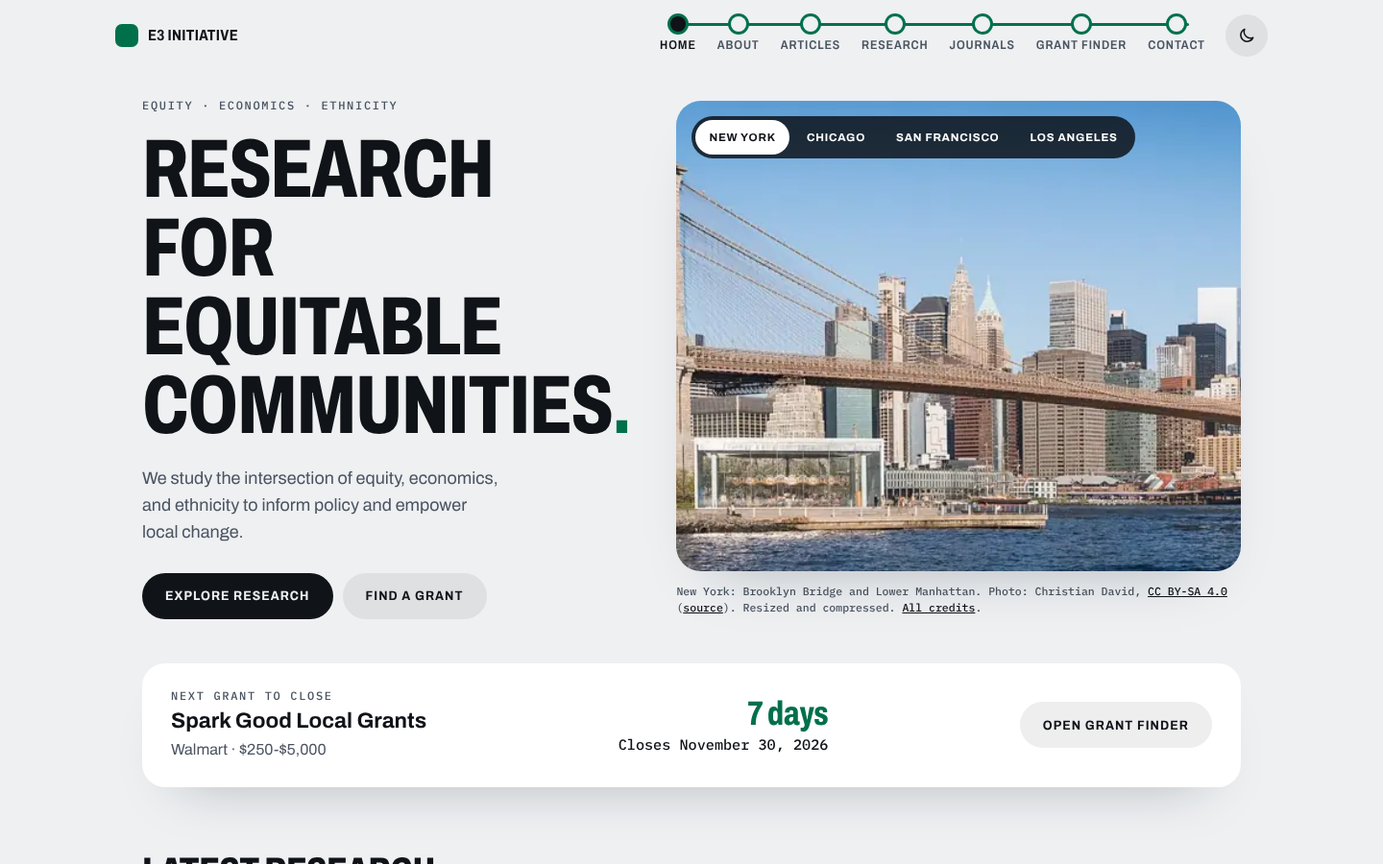
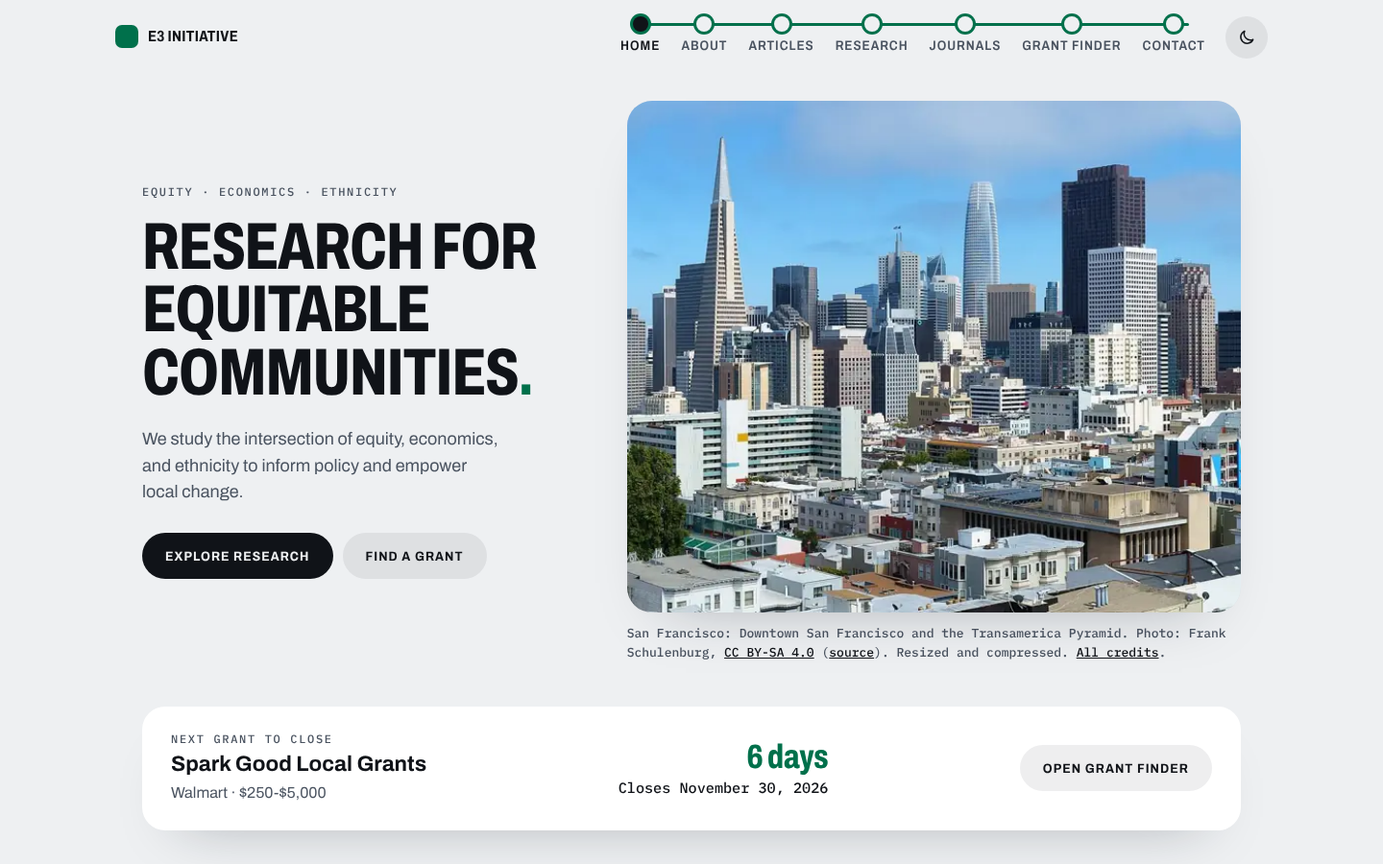
D preview: random city photo per visit (no switcher), larger nav and captions, headline fits three lines
Claude-Session: https://claude.ai/code/session_011mp1weCWc4EXh1bK3ePj6e

diff --git a/d-preview/index.html b/d-preview/index.html
@@ -10,7 +10,7 @@
 @font-face{font-family:'IBM Plex Mono';src:url(/d-preview/fonts/plexmono.woff2) format('woff2');font-weight:500;font-display:swap}
 :root{--bg:#eef0f2;--surface:#fff;--ink:#101318;--muted:#4a5360;--accent:#00704b;--wash:rgba(16,19,24,.07);--on-accent:#fff;--shadow:0 30px 60px -40px rgba(20,30,40,.35);
  --sans:Archivo,system-ui,-apple-system,"Segoe UI",Roboto,sans-serif;--mono:"IBM Plex Mono",ui-monospace,Menlo,monospace}
-html.night{--bg:#090c11;--surface:#121820;--ink:#f1f3f5;--muted:#a9b2be;--accent:#37d9a0;--wash:rgba(255,255,255,.08);--on-accent:#06130d;--shadow:0 30px 70px -40px rgba(0,0,0,.9)}
+html.night{--bg:#090c11;--surface:#121820;--ink:#f1f3f5;--muted:#b4bcc7;--accent:#37d9a0;--wash:rgba(255,255,255,.08);--on-accent:#06130d;--shadow:0 30px 70px -40px rgba(0,0,0,.9)}
 *,*::before,*::after{box-sizing:border-box;margin:0;padding:0}
 html{-webkit-text-size-adjust:100%}
 body{background:var(--bg);color:var(--ink);font:400 1rem/1.55 var(--sans);-webkit-font-smoothing:antialiased}
@@ -25,7 +25,7 @@ header{position:sticky;top:0;z-index:20;background:var(--bg)}
 .right{display:flex;align-items:center;gap:10px}
 nav ul{display:flex;list-style:none;position:relative;gap:0}
 nav ul::before{content:"";position:absolute;left:28px;right:28px;top:10px;height:3px;border-radius:2px;background:var(--accent)}
-nav a{position:relative;display:block;padding:26px 11px 6px;font:600 .8rem var(--sans);font-stretch:85%;letter-spacing:.07em;text-transform:uppercase;text-decoration:none;color:var(--muted);min-height:44px}
+nav a{position:relative;display:block;padding:26px 11px 8px;font:600 .875rem var(--sans);font-stretch:85%;letter-spacing:.07em;text-transform:uppercase;text-decoration:none;color:var(--muted);min-height:44px}
 nav a::before{content:"";position:absolute;left:50%;top:3px;width:16px;height:16px;margin-left:-8px;border-radius:50%;background:var(--bg);box-shadow:0 0 0 3px var(--accent)}
 nav a:hover{color:var(--ink)}nav a[aria-current=page]{color:var(--ink)}nav a[aria-current=page]::before{background:var(--ink)}
 .icon-btn{width:44px;height:44px;border-radius:50%;background:var(--wash);display:grid;place-items:center;border:0;color:var(--ink);cursor:pointer}
@@ -33,7 +33,7 @@ nav a:hover{color:var(--ink)}nav a[aria-current=page]{color:var(--ink)}nav a[ari
 .sun{display:none}html.night .sun{display:block}html.night .moon{display:none}
 .hero{display:grid;grid-template-columns:5fr 7fr;gap:48px;align-items:center;padding:28px 0 20px}
 .eyebrow{font:500 .75rem var(--mono);letter-spacing:.14em;text-transform:uppercase;color:var(--muted);margin-bottom:18px}
-h1{font-weight:760;font-stretch:72%;text-transform:uppercase;letter-spacing:-.015em;line-height:.95;font-size:clamp(2.9rem,6vw,5.4rem);text-wrap:balance}
+h1{font-weight:760;font-stretch:72%;text-transform:uppercase;letter-spacing:-.015em;line-height:.95;font-size:clamp(2.6rem,4.8vw,4.5rem);text-wrap:balance}
 h1 span{color:var(--accent)}
 .lede{margin:22px 0 28px;font-size:1.125rem;max-width:36ch;color:var(--muted)}
 .btns{display:flex;flex-wrap:wrap;gap:10px}
@@ -45,7 +45,7 @@ figure{margin:0}
 .tabs{position:absolute;left:16px;top:16px;display:flex;flex-wrap:wrap;gap:4px;padding:4px;border-radius:99px;background:rgba(10,14,20,.82)}
 .tabs button{min-height:36px;padding:0 14px;border-radius:99px;border:0;background:none;color:#fff;font:700 .72rem var(--sans);letter-spacing:.07em;text-transform:uppercase;cursor:pointer}
 .tabs button[aria-pressed=true]{background:#fff;color:#101318}
-figcaption{margin-top:12px;font:500 .72rem/1.5 var(--mono);color:var(--muted)}
+figcaption{margin-top:12px;font:500 .8125rem/1.55 var(--mono);color:var(--muted)}
 figcaption a{color:var(--ink)}
 .closes{display:flex;flex-wrap:wrap;align-items:center;justify-content:space-between;gap:18px 32px;margin:26px 0 0;padding:26px 30px;border-radius:24px;background:var(--surface);box-shadow:var(--shadow)}
 .closes h2{font:500 .75rem var(--mono);letter-spacing:.14em;text-transform:uppercase;color:var(--muted);margin-bottom:6px}
@@ -57,13 +57,13 @@ section.latest h2{font-weight:760;font-stretch:72%;text-transform:uppercase;font
 .cards{display:grid;grid-template-columns:repeat(3,1fr);gap:24px;list-style:none}
 .card a{display:block;text-decoration:none}.card img{width:100%;aspect-ratio:4/3;object-fit:cover;border-radius:18px;background:var(--wash)}
 .card h3{font-weight:700;font-size:1.1rem;line-height:1.25;margin:14px 0 6px}.card a:hover h3{text-decoration:underline}
-.card span{font:500 .8rem var(--mono);color:var(--muted)}
+.card span{font:500 .875rem var(--mono);color:var(--muted)}
 footer{padding:56px 0 40px;margin-top:40px}
 footer ul{display:flex;flex-wrap:wrap;gap:6px 24px;list-style:none;margin-bottom:18px}
 footer a{display:inline-block;padding:8px 0;color:var(--muted);text-decoration:none;font-weight:500}footer a:hover{color:var(--ink);text-decoration:underline}
 footer p{font:500 .75rem var(--mono);color:var(--muted)}
 .prose{max-width:760px;padding:40px 0}.prose h1{font-size:clamp(2.4rem,5vw,3.6rem);margin-bottom:18px}.prose p{margin:0 0 14px;color:var(--muted)}
-table{width:100%;border-collapse:collapse;margin:22px 0;font-size:.95rem}th,td{text-align:left;padding:12px 14px 12px 0;vertical-align:top}th{font:500 .72rem var(--mono);letter-spacing:.12em;text-transform:uppercase;color:var(--muted)}
+table{width:100%;border-collapse:collapse;margin:22px 0;font-size:.95rem}th,td{text-align:left;padding:12px 14px 12px 0;vertical-align:top}th{font:500 .75rem var(--mono);letter-spacing:.12em;text-transform:uppercase;color:var(--muted)}
 tbody tr:nth-child(odd){background:var(--wash)}td,th{padding-left:12px}
 @media(max-width:900px){.hero{grid-template-columns:1fr;gap:28px}.lede{max-width:none}.cards{grid-template-columns:1fr}.photo{aspect-ratio:4/3}
  .menu{display:grid}nav{display:none;position:absolute;left:0;right:0;top:100%;background:var(--bg);padding:6px 28px 16px}nav.open{display:block}nav ul{flex-direction:column}nav ul::before,nav a::before{display:none}nav a{padding:12px 0;min-height:44px}}
@@ -92,9 +92,8 @@ tbody tr:nth-child(odd){background:var(--wash)}td,th{padding-left:12px}
   <figure>
     <div class="photo" id="photo">
       <img id="hero" width="1200" height="1000" alt="" fetchpriority="high" decoding="async">
-      <script>(function(){var n=document.documentElement.classList.contains('night'),i=document.getElementById('hero');i.src='/d-preview/img/ny-'+(n?'night':'day')+'-1200.webp';i.srcset='/d-preview/img/ny-'+(n?'night':'day')+'-640.webp 640w, /d-preview/img/ny-'+(n?'night':'day')+'-1200.webp 1200w';i.sizes='(max-width:900px) 100vw, 58vw'})()</script>
+      <script>(function(){var n=document.documentElement.classList.contains('night'),i=document.getElementById('hero');var c=null;try{c=sessionStorage.getItem('e3-city')}catch(e){}var L=['ny','chi','sf','la'];if(L.indexOf(c)<0){c=L[Math.floor(Math.random()*4)];try{sessionStorage.setItem('e3-city',c)}catch(e){}}var b='/d-preview/img/'+c+'-'+(n?'night':'day');i.src=b+'-1200.webp';i.srcset=b+'-640.webp 640w, '+b+'-1200.webp 1200w';i.sizes='(max-width:900px) 100vw, 58vw'})()</script>
       <noscript><img src="/d-preview/img/ny-day-1200.webp" width="1200" height="1000" alt="Brooklyn Bridge and Lower Manhattan, in daylight"></noscript>
-      <div class="tabs" role="group" aria-label="Choose a city photo"><button type="button" data-c="ny" aria-pressed="true">New York</button><button type="button" data-c="chi" aria-pressed="false">Chicago</button><button type="button" data-c="sf" aria-pressed="false">San Francisco</button><button type="button" data-c="la" aria-pressed="false">Los Angeles</button></div>
     </div>
     <figcaption id="cap"></figcaption>
   </figure>
@@ -116,13 +115,12 @@ mn.addEventListener('click',function(){var o=n.classList.toggle('open');mn.setAt
 <script>
 (function(){
 var P={"ny-day": {"a": "Brooklyn Bridge and Lower Manhattan, in daylight", "c": "Brooklyn Bridge and Lower Manhattan", "w": "Christian David", "l": "CC BY-SA 4.0", "u": "https://creativecommons.org/licenses/by-sa/4.0/", "p": "https://commons.wikimedia.org/wiki/File:Brooklyn_Bridge_and_the_Lower_Manhattan_skyline_from_Pebble_Beach,_New_York.jpg", "s1": 72394, "s2": 18000}, "ny-night": {"a": "Times Square, Manhattan", "c": "Times Square, Manhattan", "w": "Nielsoncaetanosalmeron", "l": "CC BY 4.0", "u": "https://creativecommons.org/licenses/by/4.0/", "p": "https://commons.wikimedia.org/wiki/File:Times_Square,_NYC_at_night_-_August_2025.jpg", "s1": 131596, "s2": 45142}, "chi-day": {"a": "The Chicago skyline from Burnham Harbor, in daylight", "c": "The Chicago skyline from Burnham Harbor", "w": "Marie Miller", "l": "CC BY-SA 4.0", "u": "https://creativecommons.org/licenses/by-sa/4.0/", "p": "https://commons.wikimedia.org/wiki/File:Chicago-skyline-lake-burnham.jpg", "s1": 164096, "s2": 45444}, "chi-night": {"a": "The Chicago River at night", "c": "The Chicago River at night", "w": "Spatms", "l": "CC BY-SA 4.0", "u": "https://creativecommons.org/licenses/by-sa/4.0/", "p": "https://commons.wikimedia.org/wiki/File:Chicago_Skyline_on_the_Chicago_River_at_night.jpg", "s1": 102028, "s2": 39828}, "sf-day": {"a": "Downtown San Francisco and the Transamerica Pyramid, in daylight", "c": "Downtown San Francisco and the Transamerica Pyramid", "w": "Frank Schulenburg", "l": "CC BY-SA 4.0", "u": "https://creativecommons.org/licenses/by-sa/4.0/", "p": "https://commons.wikimedia.org/wiki/File:View_of_San_Francisco_from_Ina_Coolbrith_Park-01445.jpg", "s1": 97736, "s2": 29438}, "sf-night": {"a": "The San Francisco skyline across the bay", "c": "The San Francisco skyline across the bay", "w": "Cgbriggs19", "l": "CC BY-SA 4.0", "u": "https://creativecommons.org/licenses/by-sa/4.0/", "p": "https://commons.wikimedia.org/wiki/File:San_Francisco_Skyline_at_night.jpg", "s1": 58884, "s2": 20272}, "la-day": {"a": "Downtown Los Angeles towers, in daylight", "c": "Downtown Los Angeles towers", "w": "Levi Clancy", "l": "CC BY-SA 4.0", "u": "https://creativecommons.org/licenses/by-sa/4.0/", "p": "https://commons.wikimedia.org/wiki/File:Skyline_of_Los_Angeles,_Downtown_Los_Angeles,_California_13.jpg", "s1": 94474, "s2": 33040}, "la-night": {"a": "Downtown Los Angeles towers at night", "c": "Downtown Los Angeles towers at night", "w": "Stephen Friday", "l": "CC BY 2.0", "u": "https://creativecommons.org/licenses/by/2.0/", "p": "https://commons.wikimedia.org/wiki/File:Los_Angeles_at_night.jpg", "s1": 107142, "s2": 36678}},C=["ny", "chi", "sf", "la"],NM={"ny": "New York", "chi": "Chicago", "sf": "San Francisco", "la": "Los Angeles"};
-var city='ny',img=document.getElementById('hero'),cap=document.getElementById('cap'),tabs=document.querySelectorAll('.tabs button');
+var tabs=[];var city=null;try{city=sessionStorage.getItem('e3-city')}catch(e){}if(!city||C.indexOf(city)<0){city=C[Math.floor(Math.random()*C.length)];try{sessionStorage.setItem('e3-city',city)}catch(e){}}var img=document.getElementById('hero'),cap=document.getElementById('cap'),tabs=document.querySelectorAll('.tabs button');
 function mode(){return document.documentElement.classList.contains('night')?'night':'day'}
 function show(){var k=city+'-'+mode(),p=P[k],b='/d-preview/img/'+k;
   img.alt=p.a;img.srcset=b+'-640.webp 640w, '+b+'-1200.webp 1200w';img.src=b+'-1200.webp';
   cap.innerHTML=NM[city]+': '+p.c.replace(/&/g,'&amp;')+'. Photo: '+p.w.replace(/</g,'&lt;')+', <a href="'+p.u+'">'+p.l+'</a> (<a href="'+p.p+'">source</a>). Resized and compressed. <a href="/d-preview/credits.html">All credits</a>.';
-  tabs.forEach(function(t){t.setAttribute('aria-pressed',t.dataset.c===city)})}
-tabs.forEach(function(t){t.addEventListener('click',function(){city=t.dataset.c;show()})});
+  }
 window.e3Photo=show;show();
 fetch('/data/grants.json').then(function(r){return r.json()}).then(function(g){
   var today=new Date();today.setHours(0,0,0,0);

diff --git a/d-preview/credits.html b/d-preview/credits.html
@@ -10,7 +10,7 @@
 @font-face{font-family:'IBM Plex Mono';src:url(/d-preview/fonts/plexmono.woff2) format('woff2');font-weight:500;font-display:swap}
 :root{--bg:#eef0f2;--surface:#fff;--ink:#101318;--muted:#4a5360;--accent:#00704b;--wash:rgba(16,19,24,.07);--on-accent:#fff;--shadow:0 30px 60px -40px rgba(20,30,40,.35);
  --sans:Archivo,system-ui,-apple-system,"Segoe UI",Roboto,sans-serif;--mono:"IBM Plex Mono",ui-monospace,Menlo,monospace}
-html.night{--bg:#090c11;--surface:#121820;--ink:#f1f3f5;--muted:#a9b2be;--accent:#37d9a0;--wash:rgba(255,255,255,.08);--on-accent:#06130d;--shadow:0 30px 70px -40px rgba(0,0,0,.9)}
+html.night{--bg:#090c11;--surface:#121820;--ink:#f1f3f5;--muted:#b4bcc7;--accent:#37d9a0;--wash:rgba(255,255,255,.08);--on-accent:#06130d;--shadow:0 30px 70px -40px rgba(0,0,0,.9)}
 *,*::before,*::after{box-sizing:border-box;margin:0;padding:0}
 html{-webkit-text-size-adjust:100%}
 body{background:var(--bg);color:var(--ink);font:400 1rem/1.55 var(--sans);-webkit-font-smoothing:antialiased}
@@ -25,7 +25,7 @@ header{position:sticky;top:0;z-index:20;background:var(--bg)}
 .right{display:flex;align-items:center;gap:10px}
 nav ul{display:flex;list-style:none;position:relative;gap:0}
 nav ul::before{content:"";position:absolute;left:28px;right:28px;top:10px;height:3px;border-radius:2px;background:var(--accent)}
-nav a{position:relative;display:block;padding:26px 11px 6px;font:600 .8rem var(--sans);font-stretch:85%;letter-spacing:.07em;text-transform:uppercase;text-decoration:none;color:var(--muted);min-height:44px}
+nav a{position:relative;display:block;padding:26px 11px 8px;font:600 .875rem var(--sans);font-stretch:85%;letter-spacing:.07em;text-transform:uppercase;text-decoration:none;color:var(--muted);min-height:44px}
 nav a::before{content:"";position:absolute;left:50%;top:3px;width:16px;height:16px;margin-left:-8px;border-radius:50%;background:var(--bg);box-shadow:0 0 0 3px var(--accent)}
 nav a:hover{color:var(--ink)}nav a[aria-current=page]{color:var(--ink)}nav a[aria-current=page]::before{background:var(--ink)}
 .icon-btn{width:44px;height:44px;border-radius:50%;background:var(--wash);display:grid;place-items:center;border:0;color:var(--ink);cursor:pointer}
@@ -33,7 +33,7 @@ nav a:hover{color:var(--ink)}nav a[aria-current=page]{color:var(--ink)}nav a[ari
 .sun{display:none}html.night .sun{display:block}html.night .moon{display:none}
 .hero{display:grid;grid-template-columns:5fr 7fr;gap:48px;align-items:center;padding:28px 0 20px}
 .eyebrow{font:500 .75rem var(--mono);letter-spacing:.14em;text-transform:uppercase;color:var(--muted);margin-bottom:18px}
-h1{font-weight:760;font-stretch:72%;text-transform:uppercase;letter-spacing:-.015em;line-height:.95;font-size:clamp(2.9rem,6vw,5.4rem);text-wrap:balance}
+h1{font-weight:760;font-stretch:72%;text-transform:uppercase;letter-spacing:-.015em;line-height:.95;font-size:clamp(2.6rem,4.8vw,4.5rem);text-wrap:balance}
 h1 span{color:var(--accent)}
 .lede{margin:22px 0 28px;font-size:1.125rem;max-width:36ch;color:var(--muted)}
 .btns{display:flex;flex-wrap:wrap;gap:10px}
@@ -45,7 +45,7 @@ figure{margin:0}
 .tabs{position:absolute;left:16px;top:16px;display:flex;flex-wrap:wrap;gap:4px;padding:4px;border-radius:99px;background:rgba(10,14,20,.82)}
 .tabs button{min-height:36px;padding:0 14px;border-radius:99px;border:0;background:none;color:#fff;font:700 .72rem var(--sans);letter-spacing:.07em;text-transform:uppercase;cursor:pointer}
 .tabs button[aria-pressed=true]{background:#fff;color:#101318}
-figcaption{margin-top:12px;font:500 .72rem/1.5 var(--mono);color:var(--muted)}
+figcaption{margin-top:12px;font:500 .8125rem/1.55 var(--mono);color:var(--muted)}
 figcaption a{color:var(--ink)}
 .closes{display:flex;flex-wrap:wrap;align-items:center;justify-content:space-between;gap:18px 32px;margin:26px 0 0;padding:26px 30px;border-radius:24px;background:var(--surface);box-shadow:var(--shadow)}
 .closes h2{font:500 .75rem var(--mono);letter-spacing:.14em;text-transform:uppercase;color:var(--muted);margin-bottom:6px}
@@ -57,13 +57,13 @@ section.latest h2{font-weight:760;font-stretch:72%;text-transform:uppercase;font
 .cards{display:grid;grid-template-columns:repeat(3,1fr);gap:24px;list-style:none}
 .card a{display:block;text-decoration:none}.card img{width:100%;aspect-ratio:4/3;object-fit:cover;border-radius:18px;background:var(--wash)}
 .card h3{font-weight:700;font-size:1.1rem;line-height:1.25;margin:14px 0 6px}.card a:hover h3{text-decoration:underline}
-.card span{font:500 .8rem var(--mono);color:var(--muted)}
+.card span{font:500 .875rem var(--mono);color:var(--muted)}
 footer{padding:56px 0 40px;margin-top:40px}
 footer ul{display:flex;flex-wrap:wrap;gap:6px 24px;list-style:none;margin-bottom:18px}
 footer a{display:inline-block;padding:8px 0;color:var(--muted);text-decoration:none;font-weight:500}footer a:hover{color:var(--ink);text-decoration:underline}
 footer p{font:500 .75rem var(--mono);color:var(--muted)}
 .prose{max-width:760px;padding:40px 0}.prose h1{font-size:clamp(2.4rem,5vw,3.6rem);margin-bottom:18px}.prose p{margin:0 0 14px;color:var(--muted)}
-table{width:100%;border-collapse:collapse;margin:22px 0;font-size:.95rem}th,td{text-align:left;padding:12px 14px 12px 0;vertical-align:top}th{font:500 .72rem var(--mono);letter-spacing:.12em;text-transform:uppercase;color:var(--muted)}
+table{width:100%;border-collapse:collapse;margin:22px 0;font-size:.95rem}th,td{text-align:left;padding:12px 14px 12px 0;vertical-align:top}th{font:500 .75rem var(--mono);letter-spacing:.12em;text-transform:uppercase;color:var(--muted)}
 tbody tr:nth-child(odd){background:var(--wash)}td,th{padding-left:12px}
 @media(max-width:900px){.hero{grid-template-columns:1fr;gap:28px}.lede{max-width:none}.cards{grid-template-columns:1fr}.photo{aspect-ratio:4/3}
  .menu{display:grid}nav{display:none;position:absolute;left:0;right:0;top:100%;background:var(--bg);padding:6px 28px 16px}nav.open{display:block}nav ul{flex-direction:column}nav ul::before,nav a::before{display:none}nav a{padding:12px 0;min-height:44px}}

diff --git a/mockups/build/make_preview.py b/mockups/build/make_preview.py
@@ -45,7 +45,7 @@ CSS = """
 @font-face{font-family:'IBM Plex Mono';src:url(fonts/plexmono.woff2) format('woff2');font-weight:500;font-display:swap}
 :root{--bg:#eef0f2;--surface:#fff;--ink:#101318;--muted:#4a5360;--accent:#00704b;--wash:rgba(16,19,24,.07);--on-accent:#fff;--shadow:0 30px 60px -40px rgba(20,30,40,.35);
  --sans:Archivo,system-ui,-apple-system,"Segoe UI",Roboto,sans-serif;--mono:"IBM Plex Mono",ui-monospace,Menlo,monospace}
-html.night{--bg:#090c11;--surface:#121820;--ink:#f1f3f5;--muted:#a9b2be;--accent:#37d9a0;--wash:rgba(255,255,255,.08);--on-accent:#06130d;--shadow:0 30px 70px -40px rgba(0,0,0,.9)}
+html.night{--bg:#090c11;--surface:#121820;--ink:#f1f3f5;--muted:#b4bcc7;--accent:#37d9a0;--wash:rgba(255,255,255,.08);--on-accent:#06130d;--shadow:0 30px 70px -40px rgba(0,0,0,.9)}
 *,*::before,*::after{box-sizing:border-box;margin:0;padding:0}
 html{-webkit-text-size-adjust:100%}
 body{background:var(--bg);color:var(--ink);font:400 1rem/1.55 var(--sans);-webkit-font-smoothing:antialiased}
@@ -60,7 +60,7 @@ header{position:sticky;top:0;z-index:20;background:var(--bg)}
 .right{display:flex;align-items:center;gap:10px}
 nav ul{display:flex;list-style:none;position:relative;gap:0}
 nav ul::before{content:"";position:absolute;left:28px;right:28px;top:10px;height:3px;border-radius:2px;background:var(--accent)}
-nav a{position:relative;display:block;padding:26px 11px 6px;font:600 .8rem var(--sans);font-stretch:85%;letter-spacing:.07em;text-transform:uppercase;text-decoration:none;color:var(--muted);min-height:44px}
+nav a{position:relative;display:block;padding:26px 11px 8px;font:600 .875rem var(--sans);font-stretch:85%;letter-spacing:.07em;text-transform:uppercase;text-decoration:none;color:var(--muted);min-height:44px}
 nav a::before{content:"";position:absolute;left:50%;top:3px;width:16px;height:16px;margin-left:-8px;border-radius:50%;background:var(--bg);box-shadow:0 0 0 3px var(--accent)}
 nav a:hover{color:var(--ink)}nav a[aria-current=page]{color:var(--ink)}nav a[aria-current=page]::before{background:var(--ink)}
 .icon-btn{width:44px;height:44px;border-radius:50%;background:var(--wash);display:grid;place-items:center;border:0;color:var(--ink);cursor:pointer}
@@ -68,7 +68,7 @@ nav a:hover{color:var(--ink)}nav a[aria-current=page]{color:var(--ink)}nav a[ari
 .sun{display:none}html.night .sun{display:block}html.night .moon{display:none}
 .hero{display:grid;grid-template-columns:5fr 7fr;gap:48px;align-items:center;padding:28px 0 20px}
 .eyebrow{font:500 .75rem var(--mono);letter-spacing:.14em;text-transform:uppercase;color:var(--muted);margin-bottom:18px}
-h1{font-weight:760;font-stretch:72%;text-transform:uppercase;letter-spacing:-.015em;line-height:.95;font-size:clamp(2.9rem,6vw,5.4rem);text-wrap:balance}
+h1{font-weight:760;font-stretch:72%;text-transform:uppercase;letter-spacing:-.015em;line-height:.95;font-size:clamp(2.6rem,4.8vw,4.5rem);text-wrap:balance}
 h1 span{color:var(--accent)}
 .lede{margin:22px 0 28px;font-size:1.125rem;max-width:36ch;color:var(--muted)}
 .btns{display:flex;flex-wrap:wrap;gap:10px}
@@ -80,7 +80,7 @@ figure{margin:0}
 .tabs{position:absolute;left:16px;top:16px;display:flex;flex-wrap:wrap;gap:4px;padding:4px;border-radius:99px;background:rgba(10,14,20,.82)}
 .tabs button{min-height:36px;padding:0 14px;border-radius:99px;border:0;background:none;color:#fff;font:700 .72rem var(--sans);letter-spacing:.07em;text-transform:uppercase;cursor:pointer}
 .tabs button[aria-pressed=true]{background:#fff;color:#101318}
-figcaption{margin-top:12px;font:500 .72rem/1.5 var(--mono);color:var(--muted)}
+figcaption{margin-top:12px;font:500 .8125rem/1.55 var(--mono);color:var(--muted)}
 figcaption a{color:var(--ink)}
 .closes{display:flex;flex-wrap:wrap;align-items:center;justify-content:space-between;gap:18px 32px;margin:26px 0 0;padding:26px 30px;border-radius:24px;background:var(--surface);box-shadow:var(--shadow)}
 .closes h2{font:500 .75rem var(--mono);letter-spacing:.14em;text-transform:uppercase;color:var(--muted);margin-bottom:6px}
@@ -92,13 +92,13 @@ section.latest h2{font-weight:760;font-stretch:72%;text-transform:uppercase;font
 .cards{display:grid;grid-template-columns:repeat(3,1fr);gap:24px;list-style:none}
 .card a{display:block;text-decoration:none}.card img{width:100%;aspect-ratio:4/3;object-fit:cover;border-radius:18px;background:var(--wash)}
 .card h3{font-weight:700;font-size:1.1rem;line-height:1.25;margin:14px 0 6px}.card a:hover h3{text-decoration:underline}
-.card span{font:500 .8rem var(--mono);color:var(--muted)}
+.card span{font:500 .875rem var(--mono);color:var(--muted)}
 footer{padding:56px 0 40px;margin-top:40px}
 footer ul{display:flex;flex-wrap:wrap;gap:6px 24px;list-style:none;margin-bottom:18px}
 footer a{display:inline-block;padding:8px 0;color:var(--muted);text-decoration:none;font-weight:500}footer a:hover{color:var(--ink);text-decoration:underline}
 footer p{font:500 .75rem var(--mono);color:var(--muted)}
 .prose{max-width:760px;padding:40px 0}.prose h1{font-size:clamp(2.4rem,5vw,3.6rem);margin-bottom:18px}.prose p{margin:0 0 14px;color:var(--muted)}
-table{width:100%;border-collapse:collapse;margin:22px 0;font-size:.95rem}th,td{text-align:left;padding:12px 14px 12px 0;vertical-align:top}th{font:500 .72rem var(--mono);letter-spacing:.12em;text-transform:uppercase;color:var(--muted)}
+table{width:100%;border-collapse:collapse;margin:22px 0;font-size:.95rem}th,td{text-align:left;padding:12px 14px 12px 0;vertical-align:top}th{font:500 .75rem var(--mono);letter-spacing:.12em;text-transform:uppercase;color:var(--muted)}
 tbody tr:nth-child(odd){background:var(--wash)}td,th{padding-left:12px}
 @media(max-width:900px){.hero{grid-template-columns:1fr;gap:28px}.lede{max-width:none}.cards{grid-template-columns:1fr}.photo{aspect-ratio:4/3}
  .menu{display:grid}nav{display:none;position:absolute;left:0;right:0;top:100%;background:var(--bg);padding:6px 28px 16px}nav.open{display:block}nav ul{flex-direction:column}nav ul::before,nav a::before{display:none}nav a{padding:12px 0;min-height:44px}}
@@ -168,9 +168,8 @@ body = f"""
   <figure>
     <div class="photo" id="photo">
       <img id="hero" width="1200" height="1000" alt="" fetchpriority="high" decoding="async">
-      <script>(function(){{var n=document.documentElement.classList.contains('night'),i=document.getElementById('hero');i.src='/d-preview/img/ny-'+(n?'night':'day')+'-1200.webp';i.srcset='/d-preview/img/ny-'+(n?'night':'day')+'-640.webp 640w, /d-preview/img/ny-'+(n?'night':'day')+'-1200.webp 1200w';i.sizes='(max-width:900px) 100vw, 58vw'}})()</script>
+      <script>(function(){{var n=document.documentElement.classList.contains('night'),i=document.getElementById('hero');var c=null;try{{c=sessionStorage.getItem('e3-city')}}catch(e){{}}var L=['ny','chi','sf','la'];if(L.indexOf(c)<0){{c=L[Math.floor(Math.random()*4)];try{{sessionStorage.setItem('e3-city',c)}}catch(e){{}}}}var b='/d-preview/img/'+c+'-'+(n?'night':'day');i.src=b+'-1200.webp';i.srcset=b+'-640.webp 640w, '+b+'-1200.webp 1200w';i.sizes='(max-width:900px) 100vw, 58vw'}})()</script>
       <noscript><img src="/d-preview/img/ny-day-1200.webp" width="1200" height="1000" alt="Brooklyn Bridge and Lower Manhattan, in daylight"></noscript>
-      <div class="tabs" role="group" aria-label="Choose a city photo">{tabs}</div>
     </div>
     <figcaption id="cap"></figcaption>
   </figure>
@@ -184,13 +183,12 @@ body = f"""
 SCRIPT = f"""<script>
 (function(){{
 var P={PH},C={json.dumps([c for c,_,_,_ in CITIES])},NM={json.dumps({c: n for c, n, _, _ in CITIES})};
-var city='ny',img=document.getElementById('hero'),cap=document.getElementById('cap'),tabs=document.querySelectorAll('.tabs button');
+var tabs=[];var city=null;try{{city=sessionStorage.getItem('e3-city')}}catch(e){{}}if(!city||C.indexOf(city)<0){{city=C[Math.floor(Math.random()*C.length)];try{{sessionStorage.setItem('e3-city',city)}}catch(e){{}}}}var img=document.getElementById('hero'),cap=document.getElementById('cap'),tabs=document.querySelectorAll('.tabs button');
 function mode(){{return document.documentElement.classList.contains('night')?'night':'day'}}
 function show(){{var k=city+'-'+mode(),p=P[k],b='/d-preview/img/'+k;
   img.alt=p.a;img.srcset=b+'-640.webp 640w, '+b+'-1200.webp 1200w';img.src=b+'-1200.webp';
   cap.innerHTML=NM[city]+': '+p.c.replace(/&/g,'&amp;')+'. Photo: '+p.w.replace(/</g,'&lt;')+', <a href="'+p.u+'">'+p.l+'</a> (<a href="'+p.p+'">source</a>). Resized and compressed. <a href="/d-preview/credits.html">All credits</a>.';
-  tabs.forEach(function(t){{t.setAttribute('aria-pressed',t.dataset.c===city)}})}}
-tabs.forEach(function(t){{t.addEventListener('click',function(){{city=t.dataset.c;show()}})}});
+  }}
 window.e3Photo=show;show();
 fetch('/data/grants.json').then(function(r){{return r.json()}}).then(function(g){{
   var today=new Date();today.setHours(0,0,0,0);
